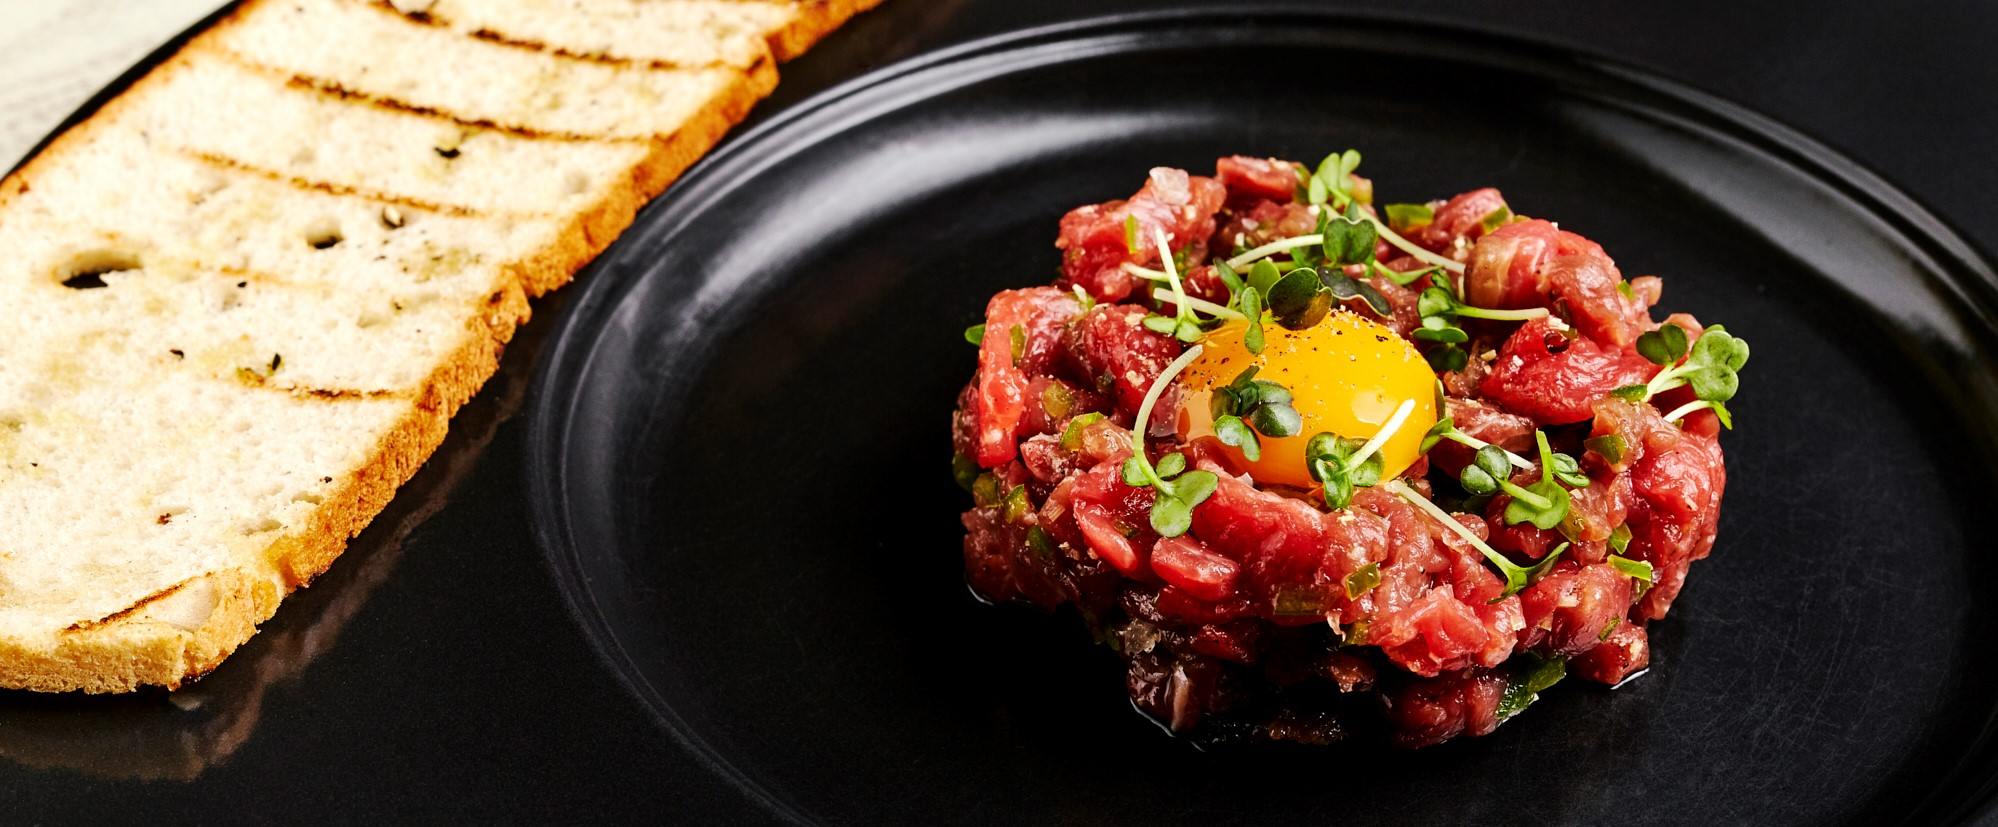
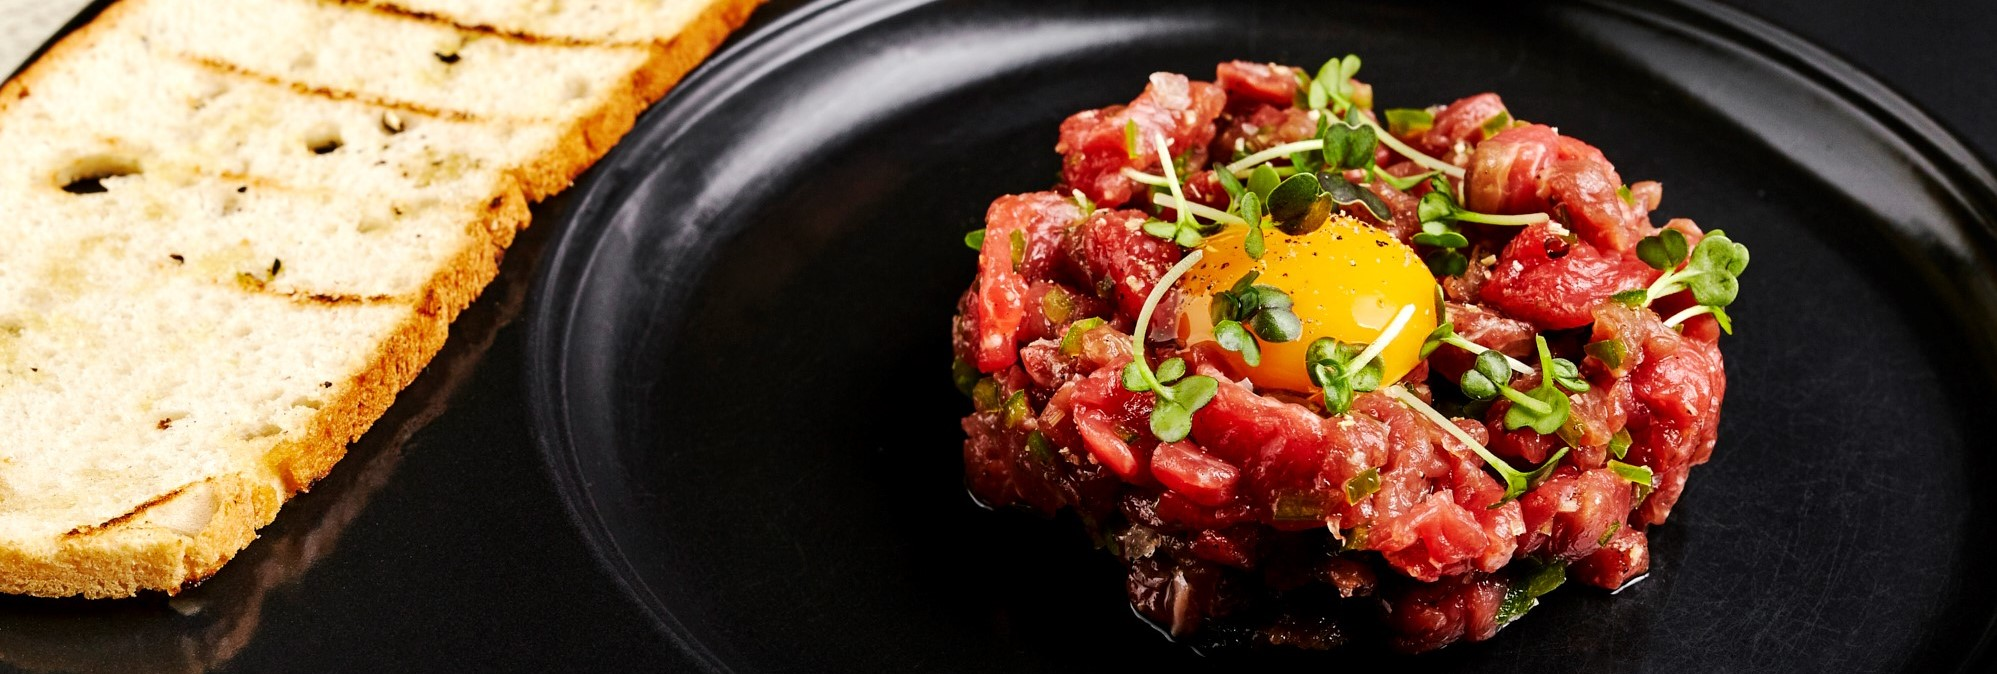
add footer, index page content finished. Nav bar pending

diff --git a/index.html b/index.html
@@ -14,17 +14,63 @@
         <nav>
 
         </nav>
+        <img src="images/hero-resized.jpg" class="img-fluid" alt="beef tartare dish">
+
     </header>
     <main>
+        <div class="container-fluid bg-dark p-2 mb-4">
+            <h2 class="white-font center">History</h2>    
+        </div>
+
+        <div class="container">
+            <div class="row">
+                <div class="col-sm">
+                  <h3>
+                      The Tatars and raw meat
+                  </h3>
+                </div>
+                <div class="col-sm">
+                  <h3>
+                      Popularization of raw meat in Europe and the United States
+                  </h3>
+                </div>
+              </div>
+            
+            
+            <div class="row">
+              <div class="col-sm">
+                 <p>
+                    A popular caricature of Mongol warriors—called Tatars or Tartars—has them tenderizing meat under their saddles, then eating it raw. This story was popularized by Jean de Joinville in the 13th century.[4] But Joinville never encountered Mongols himself and used this as a way of showing that they were uncivilized.[5] It is possible that this story was a confusion originating in the use of thin slices of meat to protect saddle sores from further rubbing.[6]
+                </p>
+              </div>
+              <div class="col-sm">
+                 <p>
+                    In the late 19th century, the Hamburg steak became popular on the menus of many restaurants in the port of 
+                    New York. This kind of fillet was beef minced by hand, lightly salted and often smoked, and usually served 
+                    raw in a dish along with onions and bread crumbs.[7][8] Hamburg steak gained popularity because of its ease 
+                    of preparation and decreasing cost. This is evident from its detailed description in some of the most popular
+                     cookbooks of the day.[9]
+                </p>
+            
+              </div>
+            </div>
 
 
 
+          </div>
+
+          
+        
+
+          
 
 
 
     </main>
     <footer>
-        <p>Developed by Raf & Greta</p>
+        <div class="container-fluid bg-dark p-3">
+            <p class="white-font">Developed by Raf & Greta</p>
+        </div>
     </footer>
 </body>
 </html>

diff --git a/css/style.css b/css/style.css
@@ -1,0 +1,24 @@
+body{
+   margin-bottom: 0;
+}
+.white-font{
+    color:azure
+}
+
+h2{
+    font-weight:300;
+}
+
+h2.center{
+    text-align: center;
+    text-transform: uppercase;
+
+}
+
+footer p.white-font{
+    text-transform: uppercase;
+    font-size: 12px;
+    text-align: right;
+    padding-right: 10px;
+}
+

diff --git a/locations.html b/locations.html
@@ -24,7 +24,9 @@
 
     </main>
     <footer>
-        <p>Developed by Raf & Greta</p>
+        <div class="container-fluid bg-dark p-3">
+            <p class="white-font">Developed by Raf & Greta</p>
+        </div>
     </footer>
 </body>
 </html>

diff --git a/recipe.html b/recipe.html
@@ -24,7 +24,9 @@
 
     </main>
     <footer>
-        <p>Developed by Raf & Greta</p>
+        <div class="container-fluid bg-dark p-3">
+            <p class="white-font">Developed by Raf & Greta</p>
+        </div>
     </footer>
 </body>
 </html>
